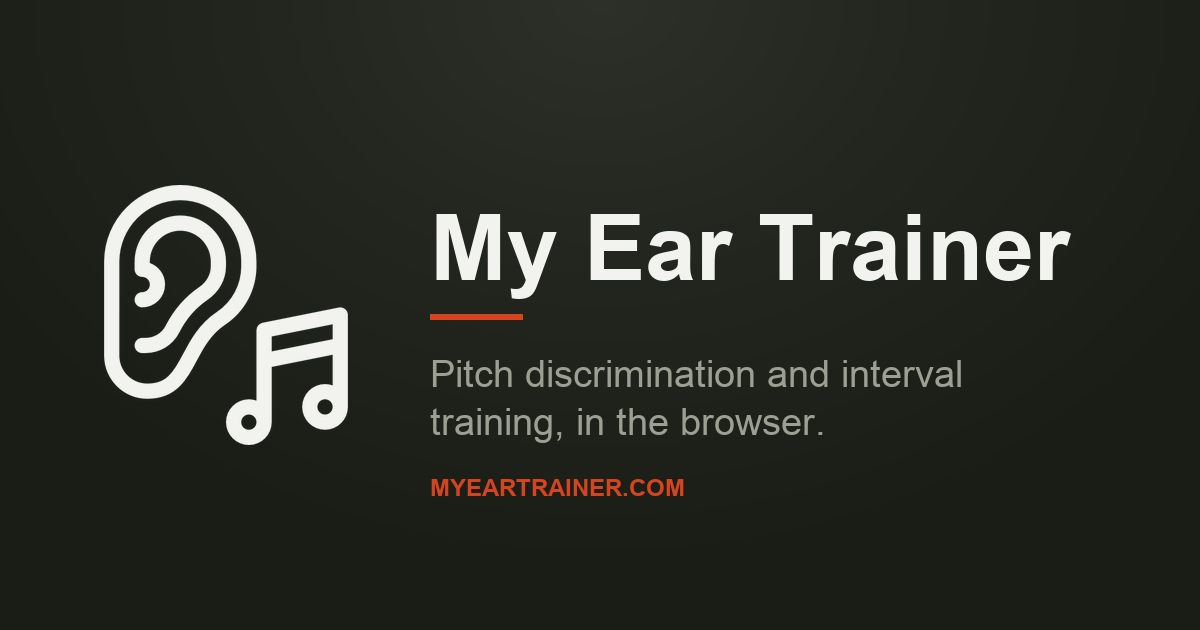
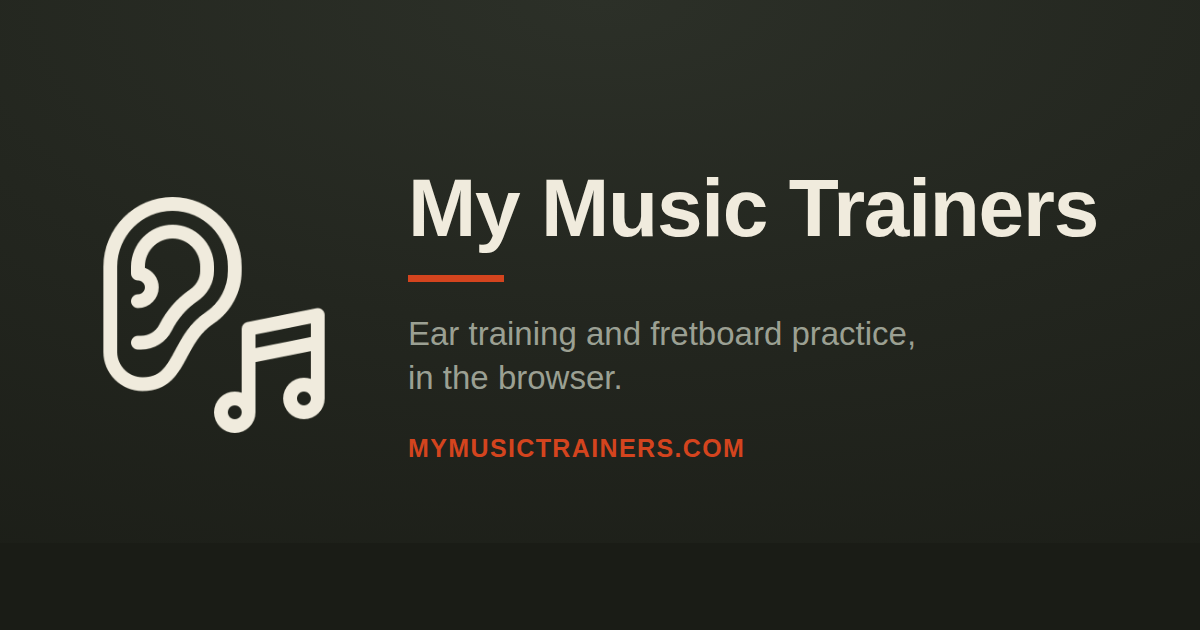
Rebrand the social card for My Music Trainers
The shared og-image still read "My Ear Trainer" and "MYEARTRAINER.COM",
so every link shared from the site previewed with the old brand and a
domain that now only redirects.

Rebuilt at the same 1200x630 using the site's own tokens and Barlow, so
it matches the pages rather than approximating them. The ear-and-note
mark is favicon.png recoloured, as before. Quantised to a 256-colour
palette, which the flat palette and single gradient take without visible
banding: 61KB, slightly under the old card's 68KB.

og:image:alt on all three pages now describes this one shared card
instead of the individual page; the fretboard's copy had also been left
saying "My Ear Trainer".

Claude-Session: https://claude.ai/code/session_012Xn3G36kxZaf8wikJuTv2u

Changed region(s): [[0.3392, 0.2714, 0.925, 0.7238], [0.0925, 0.2714, 0.3083, 0.7238], [0.3392, 0.754, 0.5858, 0.7841]]

diff --git a/ear/index.html b/ear/index.html
@@ -16,7 +16,7 @@
 <meta property="og:image" content="https://mymusictrainers.com/og-image.png">
 <meta property="og:image:width" content="1200">
 <meta property="og:image:height" content="630">
-<meta property="og:image:alt" content="My Music Trainers — pitch discrimination and interval training, in the browser">
+<meta property="og:image:alt" content="My Music Trainers — ear training and fretboard practice, in the browser">
 <meta name="twitter:card" content="summary_large_image">
 <meta name="twitter:title" content="My Ear Trainer — pitch and interval ear training">
 <meta name="twitter:description" content="Hear two tones and say which sat higher — down to a few cents — or name the interval from the tonic. Free, runs in the browser, no signup.">

diff --git a/index.html b/index.html
@@ -16,7 +16,7 @@
 <meta property="og:image" content="https://mymusictrainers.com/og-image.png">
 <meta property="og:image:width" content="1200">
 <meta property="og:image:height" content="630">
-<meta property="og:image:alt" content="My Music Trainers — free music trainers in the browser">
+<meta property="og:image:alt" content="My Music Trainers — ear training and fretboard practice, in the browser">
 <meta name="twitter:card" content="summary_large_image">
 <meta name="twitter:title" content="My Music Trainers — ear and fretboard training in the browser">
 <meta name="twitter:description" content="Two free music trainers that run in the browser. Train pitch and intervals by ear, or learn the notes on a bass and guitar fretboard. No signup.">

diff --git a/fretboard/index.html b/fretboard/index.html
@@ -16,7 +16,7 @@
 <meta property="og:image" content="https://mymusictrainers.com/og-image.png">
 <meta property="og:image:width" content="1200">
 <meta property="og:image:height" content="630">
-<meta property="og:image:alt" content="My Ear Trainer — free music trainers in the browser">
+<meta property="og:image:alt" content="My Music Trainers — ear training and fretboard practice, in the browser">
 <meta name="twitter:card" content="summary_large_image">
 <meta name="twitter:title" content="My Fretboard Trainer — note names on bass and guitar">
 <meta name="twitter:description" content="Learn the notes on a bass or guitar fretboard. Name the note under a dot, or find a named note on the neck. Free, runs in the browser, no signup.">
